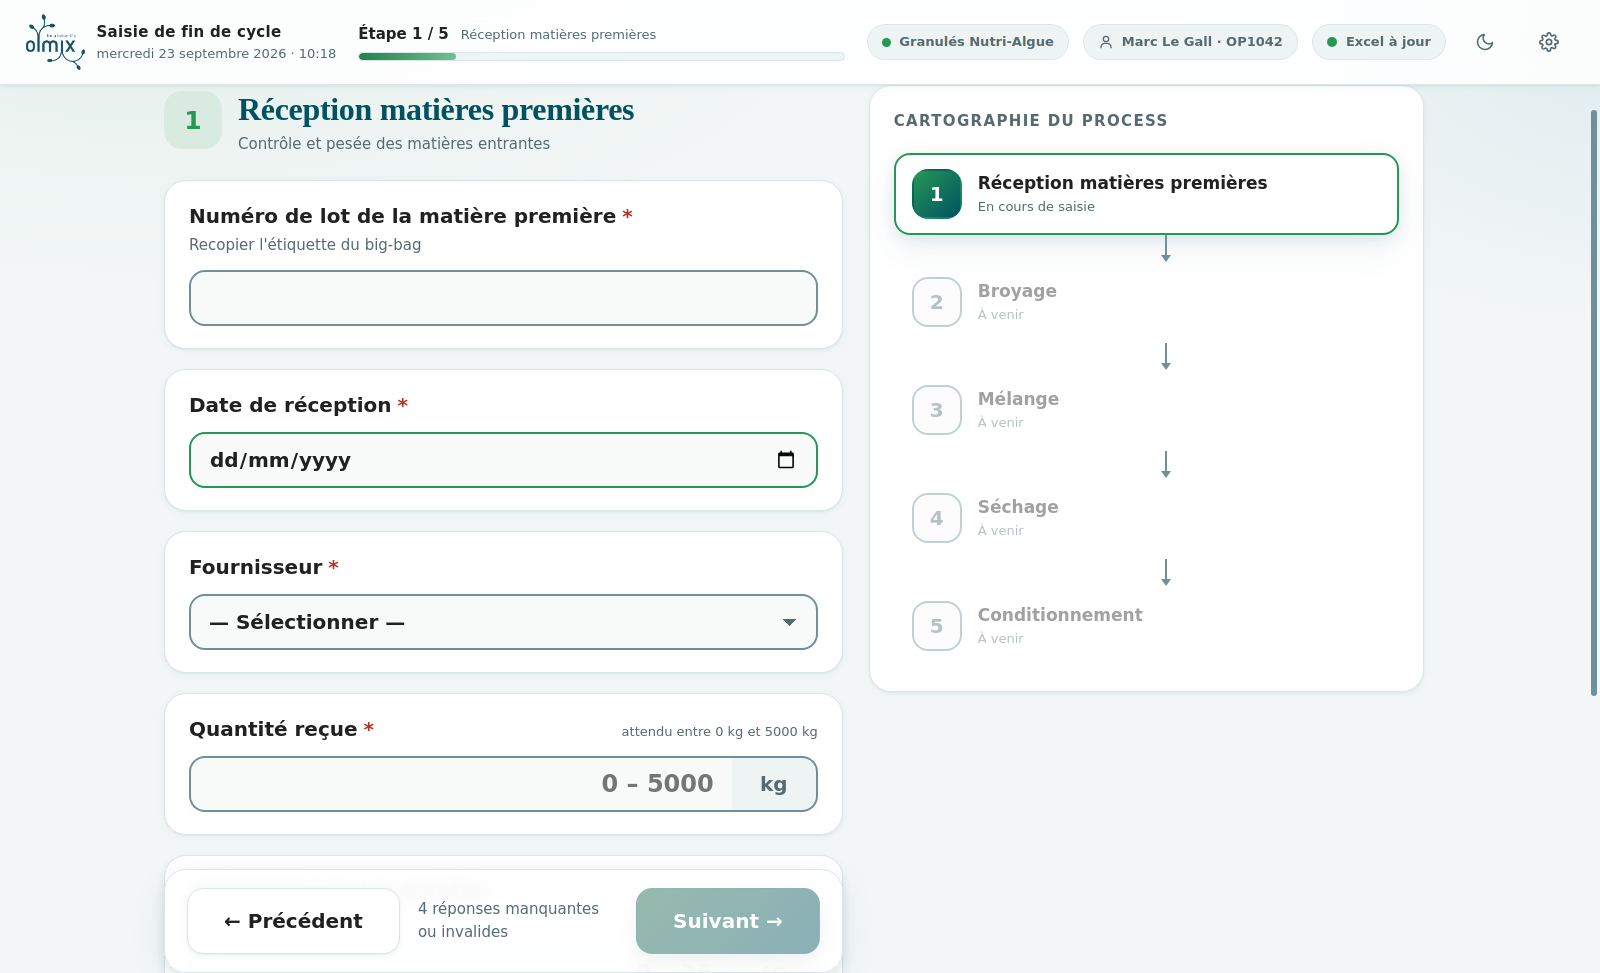
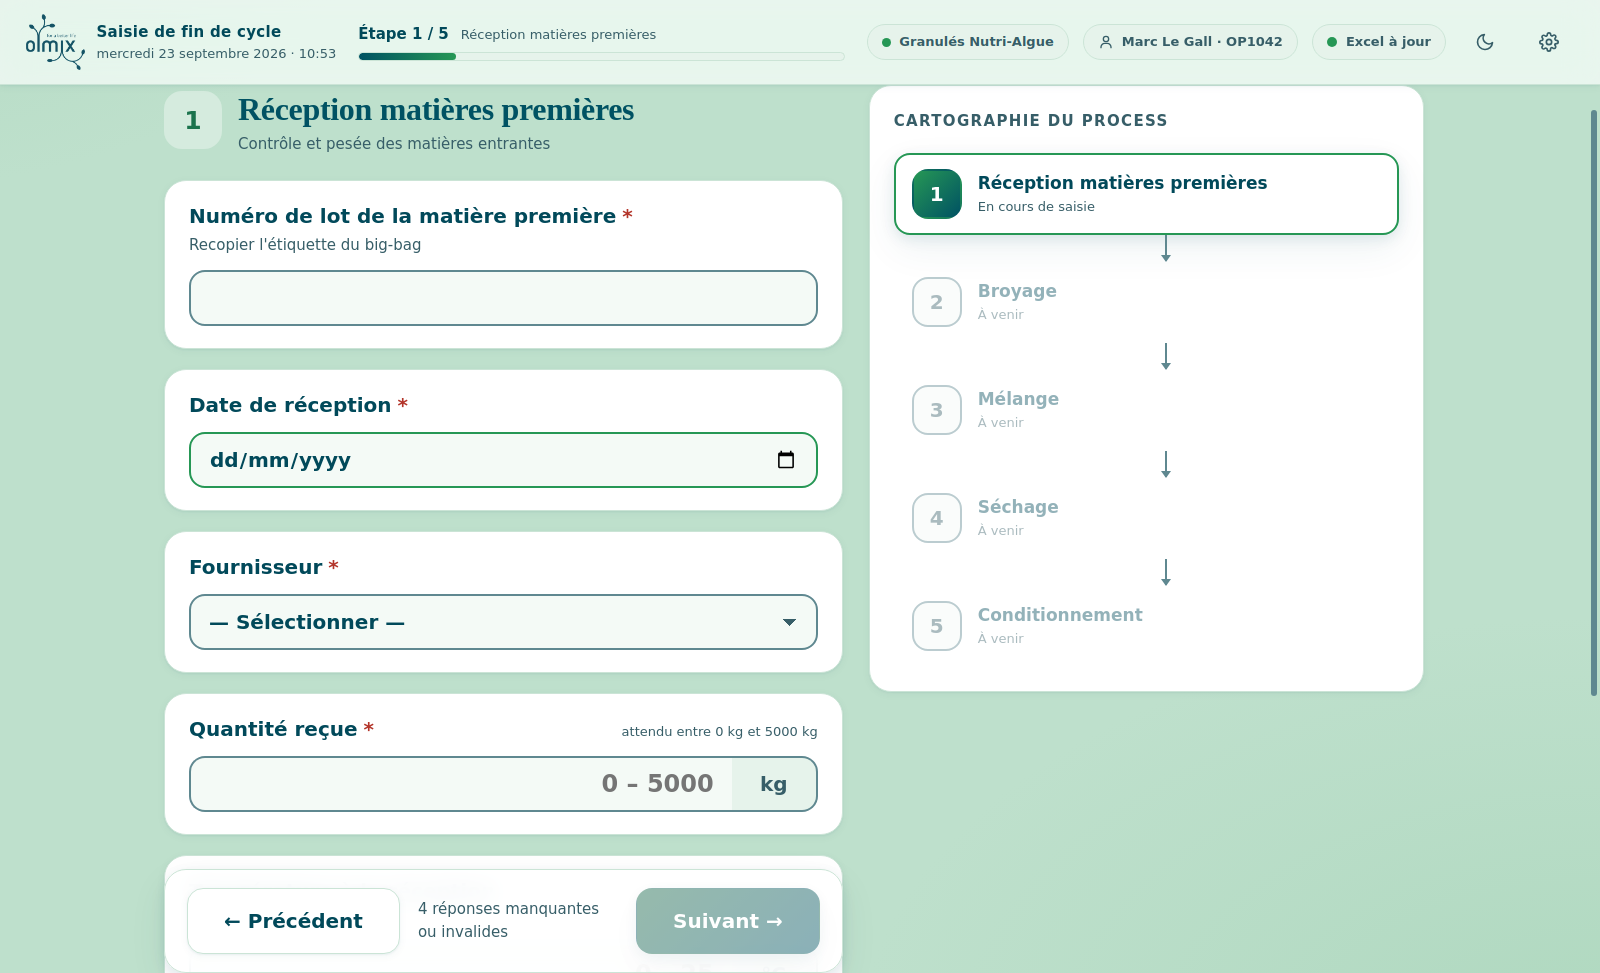
Fond de page en vert clair, texte en teal profond
Nouvelle déclinaison demandée : fond #BEE0CC, texte #01495A, accordés au blanc
des cartes.

- Le fond de page prend le vert clair de la charte, celui qui souligne les
  mots-clés des titres du site. Les contenus reposent dessus sur des cartes
  blanches : c'est ce contraste carte/fond qui structure la page, un aplat
  vert uniforme aplatissant la hiérarchie.
- Le dégradé de fond assombrit légèrement les bords au lieu d'éclaircir le
  centre, pour que la teinte perçue reste #BEE0CC à l'écran (vérifié au pixel
  sur les captures : #BEE0CC au centre).
- Texte #01495A à 7,00:1 sur le fond vert et 9,99:1 sur les cartes ;
  texte secondaire #375E68 à 4,97:1 sur le fond vert.
- Le surlignage des mots-clés passe à #7FC79B : en #BEE0CC il se confondait
  désormais avec le fond de page.
- La jauge de progression et la pastille de confirmation passent du dégradé
  vert clair à un dégradé teal vers vert : le vert clair ne contrastait plus
  assez avec sa piste, ni sous une coche blanche.
- L'anneau de focus passe en teal, lisible aussi bien sur une carte blanche
  que sur le fond vert.
- La variante lisible de l'accent produit est désormais calculée aussi en
  thème clair : le vert vif tombait à 2,97:1 sur sa propre vignette teintée.

Les 21 paires couleur/fond des deux thèmes ont été vérifiées : toutes passent
AA. Captures régénérées.

Claude-Session: https://claude.ai/code/session_01Cncv6j2togXTPjYGL4z96A

diff --git a/src/styles/tokens.css b/src/styles/tokens.css
@@ -26,10 +26,12 @@
   --marin-700: #01495a;
   --marin-600: #005263;
 
-  /* Accents clairs */
-  --menthe: #6fc194;
-  --menthe-clair: #bee0cc;
-  --ecume: #e4f1ea;
+  /* Accents clairs.
+     `--menthe-clair` doit rester distinct du fond de page, désormais lui-même
+     en #BEE0CC : c'est un vert plus soutenu. */
+  --menthe: #4fb27d;
+  --menthe-clair: #7fc79b;
+  --ecume: #dcf1e5;
 
   /* États */
   --alerte: #b8670f;
@@ -44,22 +46,27 @@
      où le vert vif tombe à 3,7:1 sur blanc. */
   --succes: #269755;
   --succes-texte: #186849;
-  --succes-fond: #e4f1ea;
+  --succes-fond: #e0f0e7;
 
   /* Surfaces — thème clair.
-     Le site Olmix est très lumineux : blanc franc, teinté de gris-vert pâle. */
-  --fond: #f2f6f6;
-  --fond-degrade: radial-gradient(1200px 620px at 10% -10%, #e2efe9 0%, transparent 60%),
-    radial-gradient(900px 520px at 104% 4%, #dfecef 0%, transparent 55%), #f2f6f6;
+     Le fond de page est le vert clair #BEE0CC de la charte (celui qui souligne
+     les mots-clés des titres du site). Les contenus reposent dessus sur des
+     cartes blanches : c'est ce contraste carte/fond qui structure la page et
+     évite l'effet d'aplat uniforme. */
+  --fond: #bee0cc;
+  /* Le dégradé assombrit légèrement les bords au lieu d'éclaircir le centre :
+     la teinte perçue reste bien #BEE0CC sur la majeure partie de l'écran. */
+  --fond-degrade: radial-gradient(1200px 700px at 100% 108%, #afd8bf 0%, transparent 62%),
+    radial-gradient(900px 520px at -8% -10%, #b3dac2 0%, transparent 55%), #bee0cc;
   --surface: #ffffff;
-  --surface-2: #f8fafa;
-  --surface-3: #eef4f4;
-  --bordure: #dbe6e7;
-  --bordure-forte: #6f9098;
+  --surface-2: #f4faf6;
+  --surface-3: #e6f3eb;
+  --bordure: #cbe4d6;
+  --bordure-forte: #5f8890;
 
   /* Texte */
-  --texte: #212121;
-  --texte-doux: #566a6f;
+  --texte: #01495a;
+  --texte-doux: #375e68;
   --texte-inverse: #ffffff;
 
   /* Rayons, ombres, espacement */
@@ -70,7 +77,9 @@
   --ombre-1: 0 1px 2px rgba(0, 82, 99, 0.06), 0 2px 8px rgba(0, 82, 99, 0.05);
   --ombre-2: 0 4px 14px rgba(0, 82, 99, 0.1), 0 14px 38px rgba(0, 82, 99, 0.07);
   --ombre-3: 0 18px 50px rgba(0, 82, 99, 0.17);
-  --anneau: 0 0 0 4px rgba(38, 151, 85, 0.32);
+  /* Anneau de focus en teal : lisible aussi bien sur une carte blanche que
+     sur le fond vert, ce que ne faisait pas un anneau vert. */
+  --anneau: 0 0 0 4px rgba(1, 73, 90, 0.34);
 
   /* Typographie.
      Le site associe un serif éditorial aux grands titres et un sans-serif

diff --git a/src/styles/global.css b/src/styles/global.css
@@ -95,8 +95,8 @@ h1, h2, h3, p { margin: 0; }
   align-items: center;
   gap: 22px;
   padding: 14px 26px;
-  background: color-mix(in srgb, var(--surface) 86%, transparent);
-  backdrop-filter: blur(14px);
+  background: color-mix(in srgb, var(--surface) 68%, transparent);
+  backdrop-filter: blur(16px) saturate(140%);
   border-bottom: 1px solid var(--bordure);
   box-shadow: var(--ombre-1);
   z-index: 5;
@@ -134,7 +134,7 @@ h1, h2, h3, p { margin: 0; }
 }
 .progression__jauge {
   height: 100%; border-radius: 999px;
-  background: linear-gradient(90deg, var(--vert-600), var(--menthe));
+  background: linear-gradient(90deg, var(--marin-600), var(--vert-500));
   transition: width 420ms cubic-bezier(0.2, 0.7, 0.3, 1);
 }
 
@@ -418,7 +418,7 @@ select.saisie { cursor: pointer; appearance: none;
 .confirmation__carte { max-width: 640px; width: 100%; padding: 52px 46px; text-align: center; }
 .confirmation__pastille {
   width: 128px; height: 128px; margin: 0 auto 30px; border-radius: 50%; display: grid; place-items: center;
-  background: linear-gradient(135deg, var(--vert-600), var(--menthe)); box-shadow: var(--ombre-3);
+  background: linear-gradient(135deg, var(--marin-600), var(--vert-500)); box-shadow: var(--ombre-3);
 }
 .confirmation__coche { width: 62px; height: 62px; stroke: #fff; stroke-width: 7; fill: none;
   stroke-linecap: round; stroke-linejoin: round; stroke-dasharray: 60; stroke-dashoffset: 60;
@@ -476,8 +476,18 @@ textarea.saisie--compacte { padding: 11px 13px; min-height: 74px; }
 .rangee { display: flex; align-items: center; gap: 12px; flex-wrap: wrap; }
 .pousser { margin-left: auto; }
 
-/* En thème sombre, tout élément portant un accent produit voit sa variante
-   « lisible » calculée automatiquement : l'accent éclairci vers le blanc. */
+/* Variante « lisible » de l'accent d'un produit, calculée automatiquement dès
+   que cet accent sert de COULEUR DE TEXTE : les vignettes d'initiales et les
+   numéros d'étape reposent sur une tuile teintée de ce même accent, où la
+   teinte brute tombe sous le seuil (2,97:1 pour le vert vif). On l'assombrit
+   en thème clair, on l'éclaircit en thème sombre. */
+.produit,
+.produit__icone,
+.etape-entete,
+.etape-entete__icone,
+.admin__initiales {
+  --accent-lisible: color-mix(in srgb, var(--accent, var(--vert-600)) 70%, #01203a);
+}
 [data-theme='sombre'] .produit,
 [data-theme='sombre'] .produit__icone,
 [data-theme='sombre'] .etape-entete,

diff --git a/electron/main.ts b/electron/main.ts
@@ -72,7 +72,7 @@ function demarrer(): void {
  * Fond de la fenetre avant le premier rendu : il evite le flash blanc au
  * demarrage. Doit rester aligne sur `--fond` dans src/styles/tokens.css.
  */
-const FOND_FENETRE = { clair: '#f2f6f6', sombre: '#052731' } as const;
+const FOND_FENETRE = { clair: '#bee0cc', sombre: '#052731' } as const;
 
 function creerFenetre(): void {
   const sombre = lireReglages().theme === 'sombre';

diff --git a/README.md b/README.md
@@ -531,6 +531,22 @@ relevées directement sur les visuels du site, pas estimées à l'œil.
 | Vert clair | `#BEE0CC` | surlignage des mots-clés dans les titres |
 | Texte courant | `#212121` | corps de texte |
 
+### Application à l'interface
+
+| Élément | Couleur |
+|---|---|
+| Fond de page | `#BEE0CC` — le vert clair de la charte |
+| Cartes, champs, barre supérieure | blanc `#FFFFFF` |
+| Texte | `#01495A` — le teal profond |
+| Texte secondaire | `#375E68` |
+| Bouton principal | dégradé `#186849` → `#005263`, texte blanc |
+| Surlignage des mots-clés | `#7FC79B` |
+
+C'est le contraste **carte blanche sur fond vert** qui structure la page : sans lui, un
+aplat vert uniforme aplatit la hiérarchie et fatigue à l'usage. Le dégradé de fond
+assombrit très légèrement les bords plutôt que d'éclaircir le centre, pour que la
+teinte perçue reste bien `#BEE0CC` sur la majeure partie de l'écran.
+
 Tout est déclaré dans [`src/styles/tokens.css`](src/styles/tokens.css) : **changer la
 charte ne demande de modifier que ce fichier**. Le thème sombre y est décliné à partir
 du teal profond, et non d'un gris neutre.
@@ -559,9 +575,14 @@ sous éclairage industriel. Deux écarts assumés :
   plafonne à 3,7:1, sous le seuil WCAG AA de 4,5:1. Il reste la couleur des aplats et
   des tracés (seuil 3:1), et c'est le vert foncé `#186849` — lui aussi de la charte —
   qui prend le relais dès qu'il s'agit de texte : 6,7:1.
-- **Les bordures de champ de saisie sont plus marquées que sur le site** (`#6F9098` au
+- **Les bordures de champ de saisie sont plus marquées que sur le site** (`#5F8890` au
   lieu d'un filet très clair), pour atteindre les 3:1 qu'exige la délimitation d'un
   composant de saisie (WCAG 1.4.11).
+
+La couleur d'accent d'un produit est par ailleurs recalculée dès qu'elle sert de
+couleur de **texte** (initiales sur les cartes, numéro d'étape) : assombrie en thème
+clair, éclaircie en thème sombre. Sans cela, le vert vif tombait à 2,97:1 sur sa propre
+vignette teintée, et le teal devenait invisible sur fond sombre.
 
 L'ensemble des paires couleur de texte / fond a été vérifié dans les deux thèmes :
 toutes passent AA.
